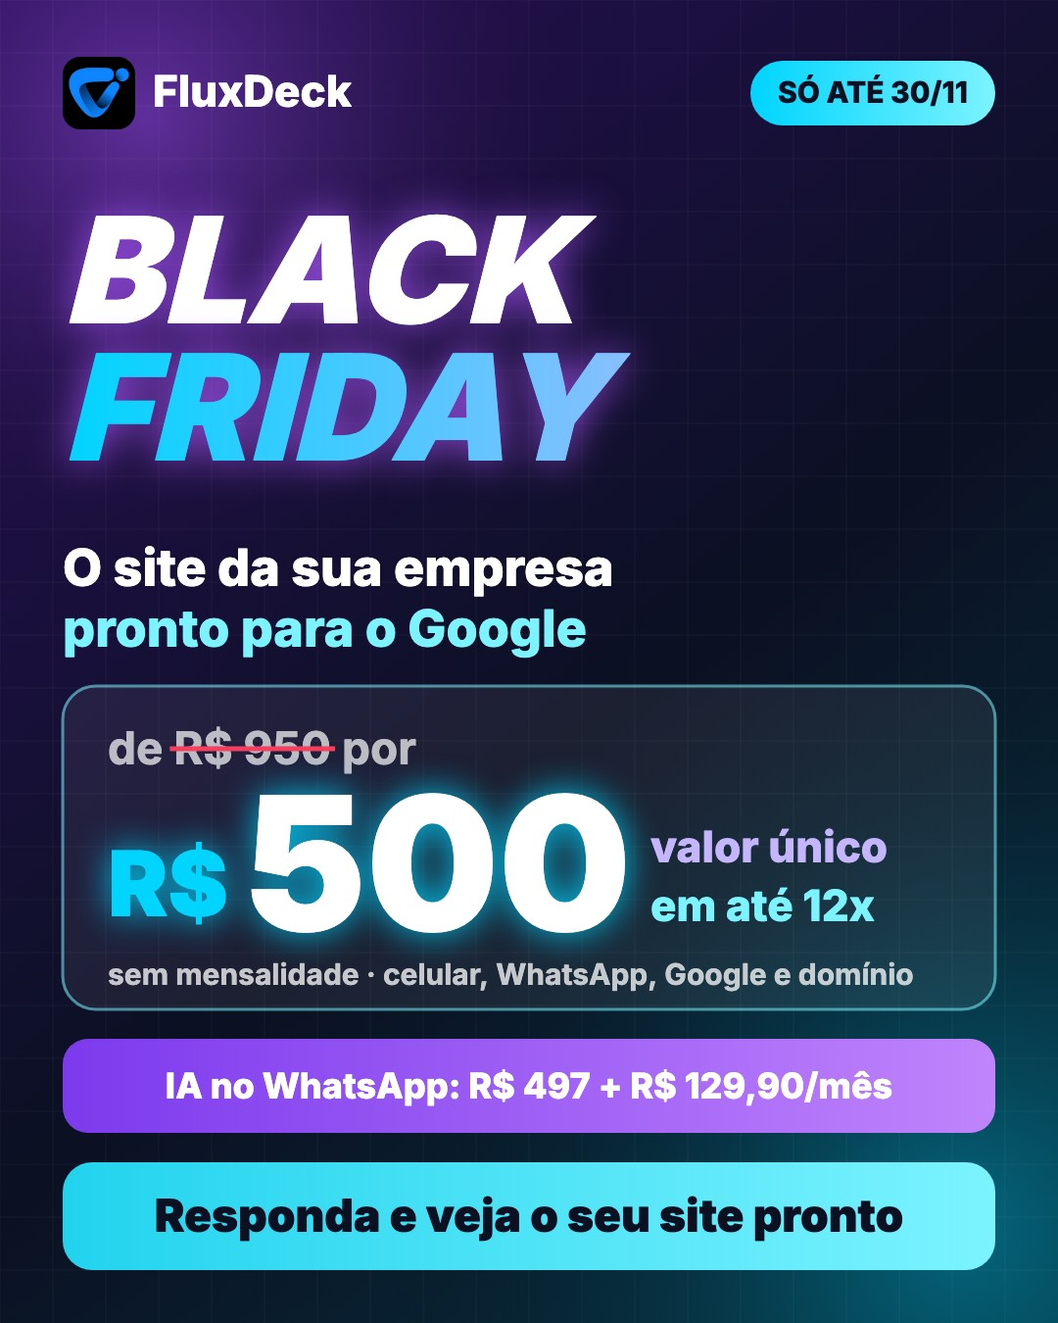
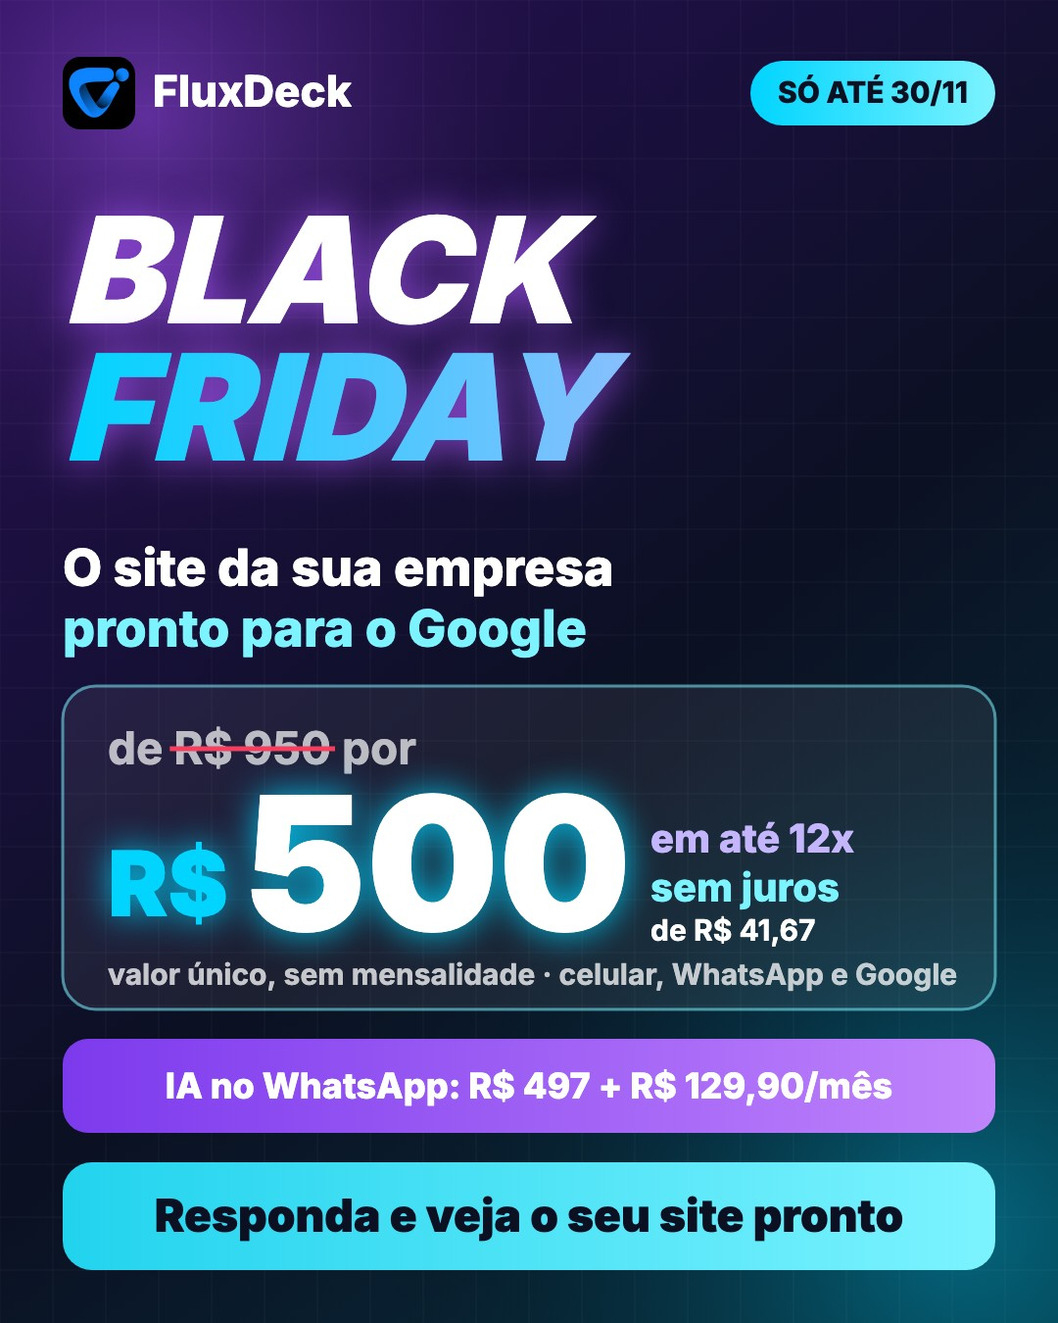
Arte da oferta: de R$ 950 por R$ 500 em até 12x sem juros, enviada junto da primeira oferta do site; a de R$ 3.000 sai de vez
- Arte nova (whatsapp-black-friday-500.jpg); os arquivos antigos (a de R$ 3.000) agora são a mesma arte nova.
- A primeira mensagem de WhatsApp que oferece o site de R$ 500 numa conversa vai com a arte antes do texto (uma vez).
- "Em até 12x sem juros" na oferta, na IA, na campanha, nos posts e no checkout (parcelas "12x de R$ 41,67 sem juros").
- Teste da arte da campanha alinhado à regra de só a mensagem da campanha levar arte e áudio.

Changed region(s): [[0.0917, 0.6222, 0.9167, 0.7467]]

diff --git a/src/vendas/campanha.js b/src/vendas/campanha.js
@@ -10,7 +10,7 @@ const GUIA = new URL("../../config/guia-empresas.md", import.meta.url);
 export const FIM_DA_PROMOCAO = "2026-11-30";
 // Desde 17/11/2026 (pedido do usuário) a campanha oferece o que está em fluxdeck.com.br, sem o plano de R$ 3.000:
 // o site por R$ 500 em até 12x e a IA no WhatsApp por R$ 497 + R$ 129,90/mês.
-export const PROMOCAO = "Na Black Friday, só até 30/11, a gente faz o site da sua empresa de R$ 950 por R$ 500, valor único, em até 12x no cartão, pronto para aparecer no Google e com o botão do WhatsApp. E se quiser uma IA atendendo o seu WhatsApp 24 horas, sai por R$ 497 de implantação e R$ 129,90 por mês.";
+export const PROMOCAO = "Na Black Friday, só até 30/11, a gente faz o site da sua empresa de R$ 950 por R$ 500, valor único, em até 12x sem juros no cartão, pronto para aparecer no Google e com o botão do WhatsApp. E se quiser uma IA atendendo o seu WhatsApp 24 horas, sai por R$ 497 de implantação e R$ 129,90 por mês.";
 // A linha antiga da apresentação (o plano de R$ 3.000), que sai do texto salvo se ainda estiver lá.
 const LINHA_ANTIGA = /^.*Professional com IA[^\n]*R\$ ?3\.000.*$\n?/gim;
 const DIAS_SEM_RESPOSTA = 2;
@@ -31,8 +31,12 @@ export async function pdfDoGuia(lead, { marca = "", cnpj = "" } = {}) {
 export function imagemDaMensagem(m, agora = new Date()) {
   if (m.canal !== "whatsapp" || m.etapa !== 0 || !/Black Friday/i.test(m.corpo ?? "")) return null;
   if (agora.toLocaleDateString("en-CA", { timeZone: config.timezone }) > FIM_DA_PROMOCAO) return null;
-  return `${config.painel.urlPublica}/whatsapp-black-friday-site.jpg`;
+  return ARTE_DA_OFERTA;
 }
+
+// A arte da oferta do site (de R$ 950 por R$ 500, em até 12x sem juros). Os arquivos antigos (a de R$ 3.000) foram
+// trocados por esta mesma arte, para nenhum link antigo mostrar o valor errado.
+export const ARTE_DA_OFERTA = `${config.painel.urlPublica}/whatsapp-black-friday-500.jpg`;
 
 // De escrito para falado: como uma pessoa fala num áudio de WhatsApp. O que a pessoa editar no painel e não
 // casar com estas frases continua igual, só com os valores por extenso e o "pra".
@@ -41,7 +45,7 @@ const JEITO_DE_FALAR = [
   [/Preparei um guia prático e gratuito para a ([^,]+), com passos simples para atrair mais clientes pelo site, pelo Google e pelo WhatsApp/g, "Olha, eu preparei um guia gratuito pra $1, bem prático, com uns passos simples pra atrair mais clientes, pelo site, pelo Google e pelo WhatsApp"],
   [/E um aviso: na Black Friday, só até 30\/11, a gente faz/g, "E aproveitando: agora na Black Friday, até o dia trinta, a gente tá fazendo"],
   [/Na Black Friday, só até 30\/11, a gente faz/g, "Olha, agora na Black Friday, até o dia trinta, a gente tá fazendo"],
-  [/de R\$ 950 por R\$ 500, valor único, em até 12x no cartão/g, "de novecentos e cinquenta por quinhentos reais, um valor só, e dá pra parcelar em até doze vezes no cartão"],
+  [/de R\$ 950 por R\$ 500, valor único, em até 12x sem juros no cartão/g, "de novecentos e cinquenta por quinhentos reais, um valor só, e dá pra parcelar em até doze vezes sem juros no cartão"],
   [/sai por R\$ 497 de implantação e R\$ 129,90 por mês\./g, "sai por quatrocentos e noventa e sete reais pra começar e cento e vinte e nove e noventa por mês."],
   [/24 horas/g, "vinte e quatro horas"],
   [/Se fizer sentido, me responde aqui que eu explico como funciona\./g, "Se fizer sentido, me responde aqui que eu te explico direitinho como funciona."],
@@ -115,7 +119,7 @@ export async function prepararCampanha(campanha, agora = new Date()) {
     if (await db.estaDescadastrado(destino)) continue;
     const comGuia = parouDeResponder(i, agora);
     await db.criarMensagem({
-      lead_id: i.id, canal: i.canal, destino, assunto: i.canal === "email" ? (comGuia ? `Um guia para a ${i.nome}, e a Black Friday` : "Black Friday: o site da sua empresa por R$ 500, em até 12x") : null,
+      lead_id: i.id, canal: i.canal, destino, assunto: i.canal === "email" ? (comGuia ? `Um guia para a ${i.nome}, e a Black Friday` : "Black Friday: o site da sua empresa por R$ 500, em até 12x sem juros") : null,
       corpo: mensagemDaCampanha({ lead: i, comGuia, responsavel: campanha.empresa.responsavel, empresa: campanha.empresa.nome }),
       status: "rascunho", tipo: "resposta", etapa: 0,
     });

diff --git a/src/pipeline.js b/src/pipeline.js
@@ -22,7 +22,7 @@ import { enviarWhatsapp, enviarTextoWhatsappOficial, oficialAtiva, numerosOficia
 import { enviarDirect } from "./envio/instagram.js";
 import * as uazap from "./envio/uazap.js";
 import * as evolution from "./envio/evolution.js";
-import { imagemDaMensagem as imagemDaPromocao, legendaDaArte, roteiroDoAudio } from "./vendas/campanha.js";
+import { imagemDaMensagem as imagemDaPromocao, legendaDaArte, roteiroDoAudio, ARTE_DA_OFERTA } from "./vendas/campanha.js";
 
 /**
  * A arte (e o áudio) da campanha só vão na mensagem da campanha, que termina com o aviso de descadastro. Uma resposta
@@ -156,6 +156,30 @@ async function enviarCampanhaEmAudio(integracao, destino, m, texto, imagem, opco
     semQueda(e, "O áudio");
     return integracao.enviarTexto(destino, texto, opcoes);
   }
+}
+
+/**
+ * A arte da oferta do site (de R$ 950 por R$ 500, em até 12x sem juros) para esta mensagem: só no WhatsApp, só
+ * empresa do Brasil, enquanto a oferta vale, quando o texto oferece o site de R$ 500 e a arte ainda não foi nessa conversa.
+ */
+export async function arteDaOferta(m, agora = new Date()) {
+  if (m?.canal !== "whatsapp" || !["resposta", "sequencia", "inicial"].includes(m.tipo) || (m.pais && m.pais !== "BR")) return null;
+  if (!ofertaSiteAtiva(agora)) return null;
+  const corpo = String(m.corpo ?? "");
+  if (!/R\$\s?500\b/.test(corpo) || !/950/.test(corpo)) return null;
+  return (await db.lerEstado(`arte_oferta:${m.lead_id}`)) ? null : ARTE_DA_OFERTA;
+}
+
+/** A arte primeiro, depois o texto. Se a arte falhar, o texto sai mesmo assim. Marca a conversa como "já recebeu a arte". */
+async function enviarComArte(integracao, destino, m, texto, arte, opcoes) {
+  try {
+    await integracao.enviarImagem(destino, arte, "", opcoes);
+    await db.gravarEstado(`arte_oferta:${m.lead_id}`, new Date().toISOString());
+  } catch (e) {
+    if (QUEDA_DO_WHATSAPP.test(e.message)) throw e;
+    log(`⚠  A arte da oferta não foi enviada para ${m.empresa}: ${e.message}`);
+  }
+  return integracao.enviarTexto(destino, texto, opcoes);
 }
 
 /**
@@ -1371,9 +1395,12 @@ export async function enviarMensagem(m, campanha, { agora = new Date() } = {}) {
       if (config.modoTeste.email && !config.modoTeste.whatsapp) throw new Error("modo teste ativo sem MODO_TESTE_WHATSAPP; WhatsApp não enviado");
       const destino = config.modoTeste.whatsapp || m.destino;
       const imagem = imagemDaMensagem(m);
+      // A arte da oferta do site vai junto da primeira mensagem da conversa que oferece o site de R$ 500 (uma vez só).
+      const arte = imagem ? null : await arteDaOferta(m);
       const enviarPara = (para) => (imagem
         ? enviarCampanhaEmAudio(INTEGRACOES_WHATSAPP[modo], para, m, m.corpo + rodape, imagem, { numeroId })
-        : INTEGRACOES_WHATSAPP[modo].enviarTexto(para, m.corpo + rodape, { numeroId }));
+        : arte ? enviarComArte(INTEGRACOES_WHATSAPP[modo], para, m, m.corpo + rodape, arte, { numeroId })
+          : INTEGRACOES_WHATSAPP[modo].enviarTexto(para, m.corpo + rodape, { numeroId }));
       try {
         messageId = await enviarPara(destino);
       } catch (e) {

diff --git a/src/vendas/paginaCheckout.js b/src/vendas/paginaCheckout.js
@@ -26,12 +26,12 @@ export function paginaDoCheckout(plano, { marca = "FluxDeck", telefone = "", log
     : [...(plano.implantacao ? [["Implantação (uma vez)", reais(plano.implantacao)]] : []), ["1ª mensalidade", reais(plano.mensal)]];
   // O plano anual e o de pagamento único (o site) parcelam em até 12x no cartão.
   const parcelado = plano.anual || plano.unico;
-  const depois = plano.unico ? `Valor único, sem mensalidade: à vista no Pix ou boleto, ou em até 12x de ${reais(Math.ceil((plano.hoje / 12) * 100) / 100)} no cartão.`
+  const depois = plano.unico ? `Valor único, sem mensalidade: à vista no Pix ou boleto, ou em até 12x de ${reais(Math.ceil((plano.hoje / 12) * 100) / 100)} sem juros no cartão.`
     : plano.anual
     ? `À vista no Pix ou boleto, ou em até 12x de ${reais(plano.hoje / 12)} no cartão.`
     : `Depois, ${reais(plano.mensal)} por mês. Sem fidelidade: cancele quando quiser.`;
   const parcelas = parcelado
-    ? Array.from({ length: 12 }, (_, k) => `<option value="${k + 1}">${k + 1}x de ${reais(Math.round((plano.hoje / (k + 1)) * 100) / 100)}${k ? "" : " (à vista)"}</option>`).join("")
+    ? Array.from({ length: 12 }, (_, k) => `<option value="${k + 1}">${k + 1}x de ${reais(Math.round((plano.hoje / (k + 1)) * 100) / 100)}${k ? (plano.unico ? " sem juros" : "") : " (à vista)"}</option>`).join("")
     : "";
   const whats = telefone ? `https://wa.me/55${String(telefone).replace(/\D/g, "").replace(/^55/, "")}` : "";
   return `<!doctype html><html lang="pt-BR"><head><meta charset="utf-8"><meta name="viewport" content="width=device-width,initial-scale=1">
@@ -168,7 +168,7 @@ input::placeholder{color:#5c6789}
 (function(){
 var forma="pix",consulta=null;
 var $=function(id){return document.getElementById(id)};
-var dicas={pix:"Depois de clicar, aparece o QR Code. A confirmação é na hora.",cartao:"${plano.unico ? "Escolha em quantas vezes quer pagar (até 12x)." : plano.anual ? "Escolha em quantas vezes quer pagar." : "A mensalidade dos próximos meses é cobrada no mesmo cartão, sem fidelidade."}",boleto:"O boleto vence em 3 dias e a confirmação leva até 3 dias úteis."};
+var dicas={pix:"Depois de clicar, aparece o QR Code. A confirmação é na hora.",cartao:"${plano.unico ? "Escolha em quantas vezes quer pagar: até 12x sem juros." : plano.anual ? "Escolha em quantas vezes quer pagar." : "A mensalidade dos próximos meses é cobrada no mesmo cartão, sem fidelidade."}",boleto:"O boleto vence em 3 dias e a confirmação leva até 3 dias úteis."};
 function escolher(f){forma=f;document.querySelectorAll(".forma").forEach(function(b){b.setAttribute("aria-pressed",String(b.dataset.forma===f))});
   $("cartao").classList.toggle("ativo",f==="cartao");$("dica").textContent=dicas[f];}
 document.querySelectorAll(".forma").forEach(function(b){b.addEventListener("click",function(){escolher(b.dataset.forma)})});

diff --git a/test/abordagem-principal.test.js b/test/abordagem-principal.test.js
@@ -167,7 +167,8 @@ test("plano de pagamento único: lido da apresentação, cobrado uma vez e sem m
   assert.equal(c.dados.value, 500);
   const html = paginaDoCheckout(resumoDoPlano({ plano: p.nome, primeiro: 500, mensal: null, unico: true }), { marca: "FluxDeck" });
   assert.match(html, /Pagamento único/);
-  assert.match(html, /Valor único, sem mensalidade: à vista no Pix ou boleto, ou em até 12x de R\$\s?41,67 no cartão/);
+  assert.match(html, /Valor único, sem mensalidade: à vista no Pix ou boleto, ou em até 12x de R\$\s?41,67 sem juros no cartão/);
+  assert.match(html, /12x de R\$\s?41,67 sem juros<\/option>/);
   assert.match(html, /<select id="parcelas">/); // o site parcela em até 12x no cartão
   assert.doesNotMatch(html, /1ª mensalidade|Sem fidelidade/);
 
@@ -363,4 +364,24 @@ test("cena 3D: os objetos saem do que a empresa oferece (salão: esmalte; academ
   const html = paginaDaPrevia({ ...semSite, nicho: "Salão de beleza" }, { dados: { servicos: [["Unhas de gel", "Manicure com gel"], ["Cabelo", "Corte"]] } });
   assert.match(html, /<div class="obj3d"><span style="transform:translateZ\(0\.0px\)">💅<\/span>/);
   assert.match(html, /class="sat"[^>]*><i>💇♀<\/i>/);
+});
+
+test("arte da oferta: vai junto da primeira mensagem que oferece o site de R$ 500 (uma vez só), nunca a de R$ 3.000", async () => {
+  const { arteDaOferta } = await import("../src/pipeline.js");
+  const { ARTE_DA_OFERTA } = await import("../src/vendas/campanha.js");
+  const { readFileSync } = await import("node:fs");
+  assert.match(ARTE_DA_OFERTA, /whatsapp-black-friday-500\.jpg$/);
+  // Os arquivos antigos da arte (o de R$ 3.000) são a mesma arte nova: nenhum link antigo mostra o valor errado.
+  const nova = readFileSync(new URL("../public/whatsapp-black-friday-500.jpg", import.meta.url));
+  assert.ok(nova.equals(readFileSync(new URL("../public/whatsapp-black-friday.jpg", import.meta.url))));
+  assert.ok(nova.equals(readFileSync(new URL("../public/whatsapp-black-friday-site.jpg", import.meta.url))));
+
+  const m = { canal: "whatsapp", tipo: "resposta", lead_id: 424242, corpo: "Fica de R$ 950 por R$ 500, em até 12x sem juros." };
+  assert.equal(await arteDaOferta(m, DURANTE), ARTE_DA_OFERTA);
+  assert.equal(await arteDaOferta({ ...m, corpo: "Entendi! Me conta mais." }, DURANTE), null);
+  assert.equal(await arteDaOferta({ ...m, pais: "PT" }, DURANTE), null);
+  assert.equal(await arteDaOferta({ ...m, canal: "email" }, DURANTE), null);
+  assert.equal(await arteDaOferta(m, DEPOIS), null);
+  await db.gravarEstado("arte_oferta:424242", new Date().toISOString());
+  assert.equal(await arteDaOferta(m, DURANTE), null); // a conversa já recebeu a arte
 });

diff --git a/test/numeros-whatsapp.test.js b/test/numeros-whatsapp.test.js
@@ -156,10 +156,11 @@ test("uazap: contato novo é avaliado; cliente vira lead, e conversa pessoal ou 
 
 test("campanha: a arte e o áudio vão juntos, com o link na legenda, e sem eles o texto sai do mesmo jeito", async () => {
   const link = "https://prospecta.exemplo/guia/abc";
-  const corpo = `Oi! Preparei um guia para atrair clientes: ${link}\n\nE um aviso: na Black Friday o plano sai por menos.`;
+  // O fim "Se preferir não receber mais mensagens" marca a mensagem da campanha (só ela leva a arte e o áudio).
+  const corpo = `Oi! Preparei um guia para atrair clientes: ${link}\n\nE um aviso: na Black Friday o site sai por menos. Se preferir não receber mais mensagens, é só avisar.`;
   const { imagemDaMensagem, roteiroDoAudio, legendaDaArte } = await import("../src/vendas/campanha.js");
   const dia = new Date("2026-11-15T12:00:00Z");
-  assert.match(imagemDaMensagem({ canal: "whatsapp", etapa: 0, corpo }, dia), /\/whatsapp-black-friday-site\.jpg$/);
+  assert.match(imagemDaMensagem({ canal: "whatsapp", etapa: 0, corpo }, dia), /\/whatsapp-black-friday-500\.jpg$/);
   assert.equal(imagemDaMensagem({ canal: "whatsapp", etapa: 0, corpo }, new Date("2026-12-01T12:00:00Z")), null); // acabou a promoção
   assert.equal(imagemDaMensagem({ canal: "email", etapa: 0, corpo }, dia), null);
   assert.equal(imagemDaMensagem({ canal: "whatsapp", etapa: 1, corpo }, dia), null); // sequência normal
@@ -167,7 +168,7 @@ test("campanha: a arte e o áudio vão juntos, com o link na legenda, e sem eles
   assert.doesNotMatch(roteiroDoAudio(corpo), /https?:|\.\./);
   assert.match(roteiroDoAudio(corpo), /pra atrair clientes\. Deixei o link aqui na conversa, tá\?/);
   const escrita = (await import("../src/vendas/campanha.js")).mensagemDaCampanha({ lead: { nome: "Odontomania", token: "t" }, comGuia: true, responsavel: "Felipe", empresa: "FluxDeck" });
-  assert.match(escrita, /de R\$ 950 por R\$ 500, valor único, em até 12x no cartão/);
+  assert.match(escrita, /de R\$ 950 por R\$ 500, valor único, em até 12x sem juros no cartão/);
   const falada = roteiroDoAudio(escrita);
   assert.doesNotMatch(falada, /R\$|https?:|\bpara\b/);
   assert.match(falada, /guia gratuito pra Odontomania/);

diff --git a/src/ia/resposta.js b/src/ia/resposta.js
@@ -202,7 +202,7 @@ export const valoresPermitidos = (lead) => (siteEmEuro(lead) ? VALOR_DO_SITE_EUR
 
 /** A regra da oferta para os prompts das conversas da abordagem principal. */
 const REGRA_DA_OFERTA = `EXCEÇÃO: a ${"${empresa}"} tem (ou vai receber) o site de exemplo dela. A oferta de site da Black Friday (${OFERTA_SITE.plano}: de ${PRECO_DE}
-  por ${PRECO_POR}, valor único, em até 12x no cartão, só até ${OFERTA_SITE.ateTexto}) PODE ser citada sem a pessoa perguntar, UMA vez, quando ela gostar da
+  por ${PRECO_POR}, valor único, em até 12x sem juros no cartão, só até ${OFERTA_SITE.ateTexto}) PODE ser citada sem a pessoa perguntar, UMA vez, quando ela gostar da
   prévia, quiser o site ou perguntar como funciona (se o histórico ainda não tem essa oferta). Escreva "de ${PRECO_DE} por ${PRECO_POR}".
   Nenhum outro valor, plano com preço ou desconto. Quando ela gostar do exemplo ou quiser o site: diga o valor e, no fim,
   mande o link de pagamento do ${OFERTA_SITE.plano} que está na apresentação (se houver). Nunca bate-papo nem reunião.`;
@@ -214,7 +214,7 @@ const REGRA_DA_OFERTA = `EXCEÇÃO: a ${"${empresa}"} tem (ou vai receber) o sit
 export function regraDoPlanoCerto(lead, agora = new Date()) {
   if (lead?.pais && lead.pais !== "BR") return "";
   const site = ofertaSiteAtiva(agora)
-    ? `o ${OFERTA_SITE.plano} (de ${PRECO_DE} por ${PRECO_POR}, valor único, em até 12x no cartão, até ${OFERTA_SITE.ateTexto})`
+    ? `o ${OFERTA_SITE.plano} (de ${PRECO_DE} por ${PRECO_POR}, valor único, em até 12x sem juros no cartão, até ${OFERTA_SITE.ateTexto})`
     : "o Site Essencial";
   return `- PLANO CERTO (nunca acima do que a pessoa pediu): quer só um site → ${site}; quer uma IA simples para atender o
   WhatsApp → o WhatsApp com IA (R$ 497 de implantação + R$ 129,90 por mês); quer os dois → os dois. Completo, CRM,

diff --git a/src/ia/conteudo.js b/src/ia/conteudo.js
@@ -17,7 +17,7 @@ export const PILARES = {
 
 // Campanha com data para acabar: fica fora do rodízio, e quem decide quando sai é o agendamento dos posts.
 export const PILAR_BLACK_FRIDAY = "black_friday";
-const TEXTO_BLACK_FRIDAY = `Promoção de Black Friday da FluxDeck, válida só até 30 de novembro de 2026: o site profissional da empresa, rápido no celular, pronto para aparecer no Google e com o botão do WhatsApp, de R$ 950 por R$ 500, valor único, em até 12x no cartão. Para quem quer também uma IA atendendo o WhatsApp 24 horas: R$ 497 de implantação e R$ 129,90 por mês.
+const TEXTO_BLACK_FRIDAY = `Promoção de Black Friday da FluxDeck, válida só até 30 de novembro de 2026: o site profissional da empresa, rápido no celular, pronto para aparecer no Google e com o botão do WhatsApp, de R$ 950 por R$ 500, valor único, em até 12x sem juros no cartão. Para quem quer também uma IA atendendo o WhatsApp 24 horas: R$ 497 de implantação e R$ 129,90 por mês.
 Este post é sobre essa promoção. Mostre o problema que ela resolve para o público do post (quem procura no Google e não acha a empresa, ou espera resposta no WhatsApp) e diga que o site fica mais barato até 30/11. No vídeo e nas telas, nunca diga nem escreva o valor: nada de "R$", "reais" ou números de preço, em nenhuma fala, título ou texto. Quem quiser saber o valor pergunta no direct ou nos comentários. Os valores aparecem só na legenda do post.
 Não invente desconto em porcentagem, vagas limitadas, bônus, contagem regressiva ou resultado de cliente. A única urgência verdadeira é que a promoção vale só até 30 de novembro.
 A última tela chama para o direct ou para comentar uma palavra, para saber mais sobre a promoção.`;

diff --git a/src/vendas/ofertaSite.js b/src/vendas/ofertaSite.js
@@ -46,7 +46,7 @@ export function origemDoSite(site, reserva = "") {
  */
 export function blocoDaOferta({ checkout = "" } = {}) {
   return `Oferta de Black Friday para criação de site (só até ${OFERTA_SITE.ateTexto}; enquanto valer, é ESTA a oferta de site, no lugar do Site Essencial):
-- ${OFERTA_SITE.plano} (${PRECO_POR} pagamento único, de ${PRECO_DE}): o site profissional da empresa no ar, feito com a cara do negócio (como a prévia que mostramos): versão para celular, botão do WhatsApp, textos e SEO para aparecer no Google, domínio e publicação. Valor único, sem mensalidade, à vista ou em até 12x de ${PARCELA} no cartão.
-Como falar: "de ${PRECO_DE} por ${PRECO_POR}, valor único, em até 12x no cartão, só nesta Black Friday".${checkout ? `
+- ${OFERTA_SITE.plano} (${PRECO_POR} pagamento único, de ${PRECO_DE}): o site profissional da empresa no ar, feito com a cara do negócio (como a prévia que mostramos): versão para celular, botão do WhatsApp, textos e SEO para aparecer no Google, domínio e publicação. Valor único, sem mensalidade, à vista ou em até 12x de ${PARCELA} sem juros no cartão.
+Como falar: "de ${PRECO_DE} por ${PRECO_POR}, valor único, em até 12x sem juros no cartão, só nesta Black Friday".${checkout ? `
 Para fechar o ${OFERTA_SITE.plano}, o pagamento é por este link (Pix, boleto ou cartão): ${checkout}` : ""}`;
 }

diff --git a/src/ia/proposta.js b/src/ia/proposta.js
@@ -100,7 +100,7 @@ Etapa 2 — se não houver resposta (WhatsApp: ~2 horas depois; e-mail: 1 dia ú
 - Volte com naturalidade, sem cobrar resposta, e lembre da prévia em meia frase (sem repetir o link).
 - Em UMA frase, o que o site faz pelo negócio (aparecer no Google para quem procura o serviço na cidade, mostrar o
   trabalho, levar o cliente direto para o WhatsApp), sem inventar números.
-${oferta ? `- Diga a oferta: o site no ar com a cara da prévia, de ${PRECO_DE} por ${PRECO_POR}, valor único, em até 12x no cartão, só nesta Black Friday (até ${OFERTA_SITE.ateTexto}).
+${oferta ? `- Diga a oferta: o site no ar com a cara da prévia, de ${PRECO_DE} por ${PRECO_POR}, valor único, em até 12x sem juros no cartão, só nesta Black Friday (até ${OFERTA_SITE.ateTexto}).
   Escreva os valores exatamente assim ("de ${PRECO_DE} por ${PRECO_POR}"). Nenhum outro valor, plano ou desconto.` : `- Ainda sem preço.`}
 - Termine com UMA pergunta simples (ex.: se quer que você coloque o site no ar com as fotos e informações deles).
 - WhatsApp: até ~350 caracteres. E-mail: 60 a 100 palavras.

diff --git a/test/campanha.test.js b/test/campanha.test.js
@@ -100,10 +100,10 @@ test("campanha: acaba com a promoção; o plano antigo de R$ 3.000 sai da aprese
 
   // A mensagem e a arte da campanha: o site de R$ 500 em até 12x e a IA no WhatsApp, sem o plano de R$ 3.000.
   const texto = campanhaMod.mensagemDaCampanha({ lead: { nome: "Clínica X", token: "t" }, comGuia: false, responsavel: "Felipe", empresa: "FluxDeck" });
-  assert.match(texto, /de R\$ 950 por R\$ 500, valor único, em até 12x/);
+  assert.match(texto, /de R\$ 950 por R\$ 500, valor único, em até 12x sem juros/);
   assert.match(texto, /R\$ 497 de implantação e R\$ 129,90 por mês/);
   assert.doesNotMatch(texto, /3\.000|4\.500|Professional/);
-  assert.match(campanhaMod.imagemDaMensagem({ canal: "whatsapp", etapa: 0, corpo: texto }, AGORA), /whatsapp-black-friday-site\.jpg$/);
+  assert.match(campanhaMod.imagemDaMensagem({ canal: "whatsapp", etapa: 0, corpo: texto }, AGORA), /whatsapp-black-friday-500\.jpg$/);
   const audio = campanhaMod.roteiroDoAudio(texto);
   assert.match(audio, /quinhentos reais/);
   assert.match(audio, /doze vezes/);

diff --git a/src/respostas/apresentacao.js b/src/respostas/apresentacao.js
@@ -26,7 +26,7 @@ Planos (todos sem fidelidade, com setup rápido e suporte humano; garantia de re
 - Loja virtual (R$ 1.470/mês): catálogo, carrinho, Pix e cartão, cálculo de frete e painel de pedidos, em 30 dias.
 - Sistema de gestão sob medida (R$ 2.370/mês): controle de clientes, estoque, financeiro e relatórios, em 45 dias.
 
-Promoção de Black Friday (só até 30/11/2026): o site da empresa de R$ 950 por R$ 500, valor único, em até 12x no cartão.
+Promoção de Black Friday (só até 30/11/2026): o site da empresa de R$ 950 por R$ 500, valor único, em até 12x sem juros no cartão.
 
 Prazo: projetos simples ficam prontos em 2 a 4 semanas; sistemas mais complexos levam de 2 a 3 meses. O cronograma exato sai na reunião inicial.`;
 

diff --git a/src/vendas/checkoutsAsaas.js b/src/vendas/checkoutsAsaas.js
@@ -37,7 +37,7 @@ export function cobrancaDoPlano(p) {
       anual: false, unico: true, primeiro: p.reais, mensal: null,
       dados: {
         name: `${p.nome} · pagamento único`, value: p.reais, billingType: "UNDEFINED", chargeType: "INSTALLMENT", maxInstallmentCount: 12,
-        description: `${p.nome}: ${reais(p.reais)}, valor único, sem mensalidade. À vista ou em até 12x no cartão.`, dueDateLimitDays: DIAS_PARA_PAGAR,
+        description: `${p.nome}: ${reais(p.reais)}, valor único, sem mensalidade. À vista ou em até 12x sem juros no cartão.`, dueDateLimitDays: DIAS_PARA_PAGAR,
       },
     };
   }
